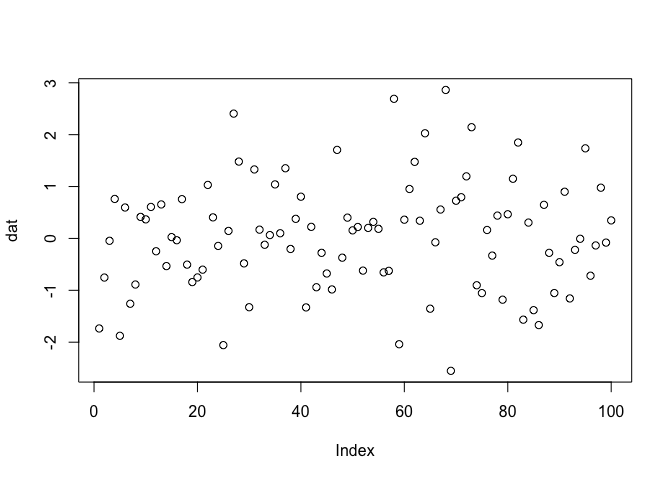
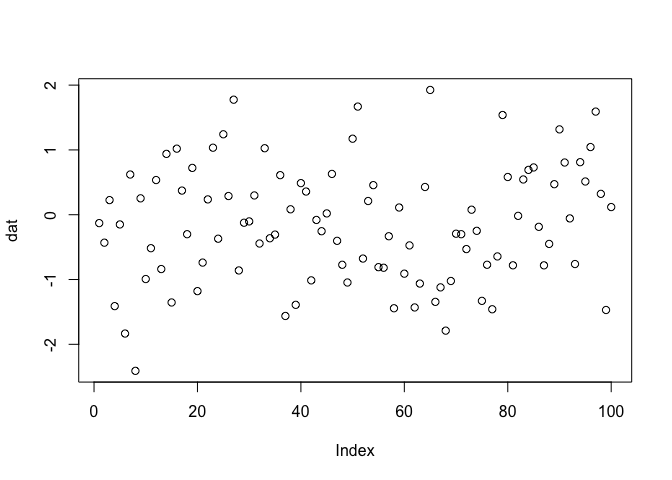
update readme

diff --git a/README.md b/README.md
@@ -18,10 +18,15 @@ far I have come across.
 
 ### Testing
 
-2021-09-24 13:21:28
+2021-09-24 13:32:14
 
     dat=rnorm(100)
 
     plot(dat)
 
 ![](README_files/figure-markdown_strict/unnamed-chunk-1-1.png)
+
+------------------------------------------------------------------------
+
+So far `.github/workflow/test_readme.yaml` works to render this readme
+on push
